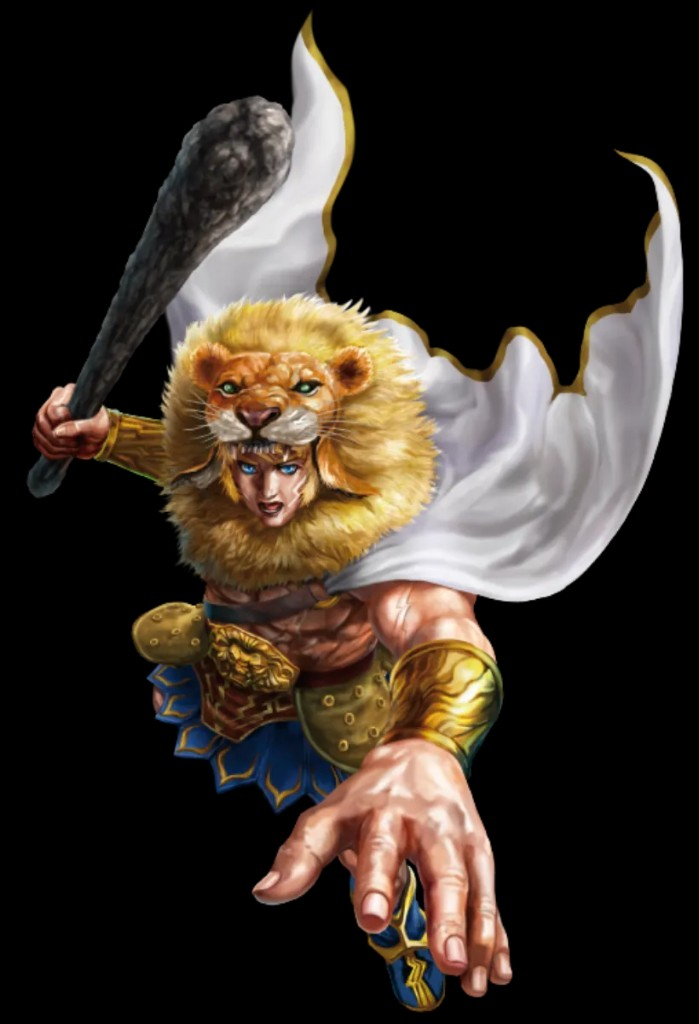
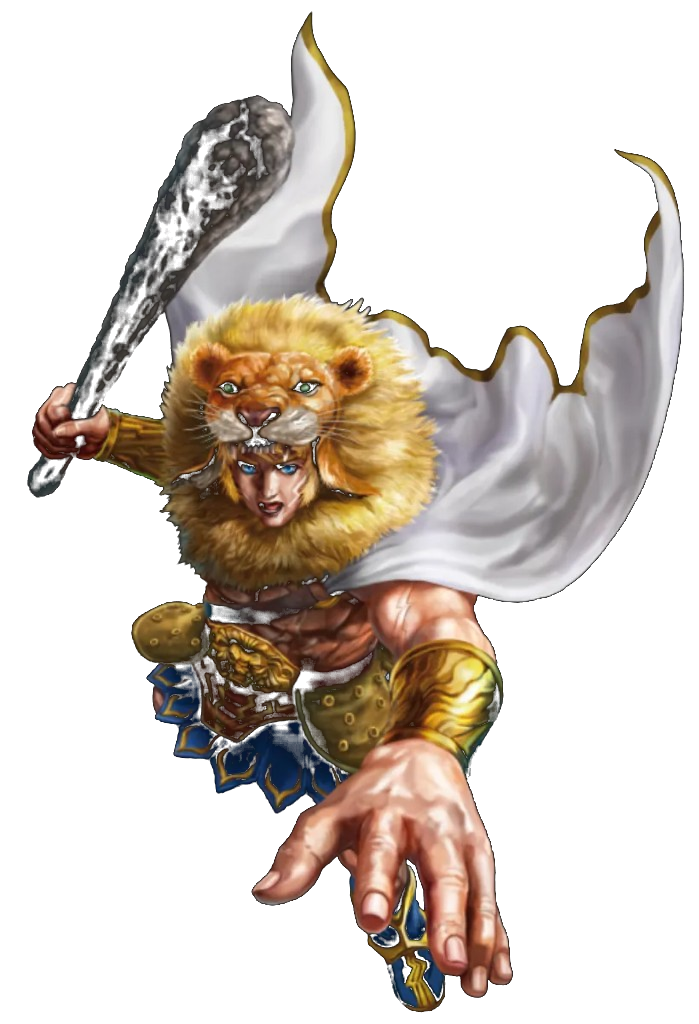
feat: シール表示改善と最強王図鑑の透過・プレビュー対応

diff --git a/src/Rewards.tsx b/src/Rewards.tsx
@@ -1,6 +1,6 @@
 import { useEffect, useRef, useState, type CSSProperties, type ReactNode } from "react";
 import { theme } from "./theme";
-import { pickTreatReward, pickStickerByTier, pickDecoyNormalReward, RARITY_LABELS, type EmojiReward, type RewardItem, type RewardRarity, type StickerRarity, type StickerReward, type TreatMode } from "./stickerRewards";
+import { pickTreatReward, pickStickerByTier, pickDecoyNormalReward, getStickerById, RARITY_LABELS, type EmojiReward, type RewardItem, type RewardRarity, type StickerRarity, type StickerReward, type TreatMode } from "./stickerRewards";
 import {
   pickTeaseVariant, shouldPlayTease,
   type TeaseVariant, type TeaseVariantId,
@@ -203,6 +203,32 @@ export interface NewRecordCelebration {
   timeSec: number;
 }
 
+export function StickerImg({
+  src, alt, padding = "10%", style,
+}: {
+  src: string; alt: string; padding?: number | string; style?: CSSProperties;
+}) {
+  return (
+    <div style={{
+      width: "100%", height: "100%",
+      padding, boxSizing: "border-box",
+      display: "flex", alignItems: "center", justifyContent: "center",
+      ...style,
+    }}>
+      <img
+        src={src}
+        alt={alt}
+        style={{
+          maxWidth: "100%", maxHeight: "100%",
+          width: "auto", height: "auto",
+          objectFit: "contain", objectPosition: "center",
+          pointerEvents: "none",
+        }}
+      />
+    </div>
+  );
+}
+
 function StickerImage({ reward, size = 160, borderGlow, glowPulse = false }: {
   reward: StickerReward; size?: number; borderGlow: string; glowPulse?: boolean;
 }) {
@@ -218,11 +244,7 @@ function StickerImage({ reward, size = 160, borderGlow, glowPulse = false }: {
         "--glow-color": `${borderGlow}88`,
       } as CSSProperties}
     >
-      <img
-        src={reward.image}
-        alt={reward.label}
-        style={{ width: "100%", height: "100%", objectFit: "cover" }}
-      />
+      <StickerImg src={reward.image} alt={reward.label} padding={12} />
     </div>
   );
 }
@@ -489,7 +511,7 @@ function TreatFxLayer({ config }: { config: RarityRevealConfig }) {
 }
 
 function TreatOverlay({
-  mode, collectedIds, onClose, onCollect, devForceTier, devForceTease, devForceTeaseId,
+  mode, collectedIds, onClose, onCollect, devForceTier, devForceStickerId, devForceTease, devForceTeaseId,
   missionTitle,
 }: {
   mode: TreatMode;
@@ -497,6 +519,7 @@ function TreatOverlay({
   onClose: () => void;
   onCollect: (rewardId: string) => void;
   devForceTier?: StickerRarity;
+  devForceStickerId?: string;
   devForceTease?: boolean;
   devForceTeaseId?: TeaseVariantId;
   missionTitle?: string;
@@ -533,7 +556,7 @@ function TreatOverlay({
     setUpgradeStep(null);
     setDecoy(null);
     setActiveTease(null);
-    onCollect(picked.id);
+    if (!devForceStickerId || import.meta.env.DEV) onCollect(picked.id);
     window.setTimeout(() => {
       vibrateTreat(getRarityRevealConfig(picked.rarity).vibratePattern);
     }, 200);
@@ -562,9 +585,12 @@ function TreatOverlay({
 
   const handleOpen = () => {
     if (phase !== "closed") return;
-    const picked = devForceTier
-      ? pickStickerByTier(collectedIds, devForceTier)
-      : pickTreatReward(collectedIds, mode);
+    const forced = devForceStickerId ? getStickerById(devForceStickerId) : undefined;
+    const picked = forced
+      ?? (devForceTier
+        ? pickStickerByTier(collectedIds, devForceTier)
+        : pickTreatReward(collectedIds, mode));
+    if (!picked) return;
 
     // DEV: 開封前teaseの単体プレビュー（本番SR/URフローとは別）
     if (devForceTease && shouldPlayTease(picked.rarity, true)) {

diff --git a/src/App.tsx b/src/App.tsx
@@ -23,7 +23,7 @@ import {
   NewRecordOverlay, TreatOverlay,
   type NewRecordCelebration, type TreatMode,
 } from "./Rewards";
-import { loadStickerAlbum, mergeStickerAlbums, saveStickerAlbum } from "./stickerRewards";
+import { loadStickerAlbum, mergeStickerAlbums, saveStickerAlbum, getStickersByCategory } from "./stickerRewards";
 import {
   getActiveSessionIds, isDaytimeSessionDay, isSessionActiveOnDate,
 } from "./japaneseCalendar";
@@ -297,6 +297,7 @@ interface PendingTreat {
   mode: TreatMode;
   session?: SessionId;
   devForceTier?: import("./stickerRewards").StickerRarity;
+  devForceStickerId?: string;
   devForceTease?: boolean;
   devForceTeaseId?: import("./treatTease").TeaseVariantId;
   missionTitle?: string;
@@ -2331,9 +2332,10 @@ export default function KeigoTaskApp() {
       )}
       {pendingTreat && (
         <TreatOverlay
-          key={`${pendingTreat.mode}-${pendingTreat.devForceTier ?? ""}-${pendingTreat.devForceTeaseId ?? ""}-${treatQueue.length}`}
+          key={`${pendingTreat.mode}-${pendingTreat.devForceTier ?? ""}-${pendingTreat.devForceStickerId ?? ""}-${pendingTreat.devForceTeaseId ?? ""}-${treatQueue.length}`}
           mode={pendingTreat.mode}
           devForceTier={pendingTreat.devForceTier}
+          devForceStickerId={pendingTreat.devForceStickerId}
           devForceTease={pendingTreat.devForceTease}
           devForceTeaseId={pendingTreat.devForceTeaseId}
           missionTitle={pendingTreat.missionTitle}
@@ -2467,6 +2469,20 @@ export default function KeigoTaskApp() {
               { icon: "🔔", label: "アラーム設定", action: () => { navigateToScreen("alarm_settings"); setShowMenu(false); } },
               { icon: "📅", label: "連続記録", action: () => { navigateToScreen("record"); setShowMenu(false); } },
               ...(import.meta.env.DEV ? [
+                { icon: "⛏", label: "MCシールプレビュー（全16枚）", action: () => {
+                  openTreatQueue(getStickersByCategory("minecraft").map((s) => ({
+                    mode: "daily" as const,
+                    devForceStickerId: s.id,
+                  })));
+                  setShowMenu(false);
+                } },
+                { icon: "👑", label: "最強王図鑑プレビュー（全8枚）", action: () => {
+                  openTreatQueue(getStickersByCategory("saikyoou").map((s) => ({
+                    mode: "daily" as const,
+                    devForceStickerId: s.id,
+                  })));
+                  setShowMenu(false);
+                } },
                 { icon: "🎁", label: "通常ごほうびテスト", action: () => { openTreatQueue([{ mode: "daily" }]); setShowMenu(false); } },
                 { icon: "🌟", label: "1日ボーナステスト", action: () => {
                   openTreatQueue([{ mode: "fullDayBonus" }]);

diff --git a/src/RecordCalendar.tsx b/src/RecordCalendar.tsx
@@ -4,7 +4,7 @@ import {
   REWARD_LOOKUP, TOTAL_REWARD_COUNT, dedupeStickerIds, getAlbumCategoryGroups,
 } from "./stickerRewards";
 import { ScrollSafeBackButton } from "./ScrollSafeBackButton";
-import { RarityBadge, StickerFrameWithBadge } from "./Rewards";
+import { RarityBadge, StickerFrameWithBadge, StickerImg } from "./Rewards";
 import {
   completedSessionCount, isDaytimeSessionDay, isFullDayForDate, parseDateKey,
   requiredSessionCount,
@@ -279,11 +279,7 @@ export function RecordScreen({ history, streak, stickerAlbum, onBack }: Props) {
                           {item.emoji ? (
                             item.emoji
                           ) : (
-                            <img
-                              src={item.image}
-                              alt={item.label}
-                              style={{ width: "100%", height: "100%", objectFit: "cover", pointerEvents: "none" }}
-                            />
+                            <StickerImg src={item.image!} alt={item.label} padding={5} />
                           )}
                         </StickerFrameWithBadge>
                       </button>
@@ -352,11 +348,7 @@ export function RecordScreen({ history, streak, stickerAlbum, onBack }: Props) {
               {previewItem.emoji ? (
                 previewItem.emoji
               ) : (
-                <img
-                  src={previewItem.image}
-                  alt={previewItem.label}
-                  style={{ width: "100%", height: "100%", objectFit: "cover" }}
-                />
+                <StickerImg src={previewItem.image!} alt={previewItem.label} padding={16} />
               )}
             </StickerFrameWithBadge>
             <div style={{ fontSize: 20, fontWeight: 900, color: theme.text.primary, marginBottom: 6 }}>

diff --git a/src/stickerRewards.ts b/src/stickerRewards.ts
@@ -304,6 +304,14 @@ export function pickStickerByTier(collectedIds: string[], tier: StickerRarity): 
   return pickFromStickerTier(collectedIds, tier);
 }
 
+export function getStickerById(id: string): StickerReward | undefined {
+  return STICKER_REWARDS.find((r) => r.id === id);
+}
+
+export function getStickersByCategory(category: StickerCategory): StickerReward[] {
+  return STICKER_REWARDS.filter((r) => r.category === category);
+}
+
 /** カットイン昇格演出用の偽ノーマル絵文字 */
 export function pickDecoyNormalReward(): EmojiReward {
   return pickRandom(DAILY_EMOJI_REWARDS);
